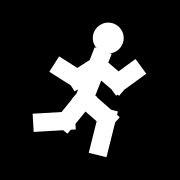
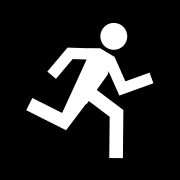
nuovo omino

Changed region(s): [[0.1389, 0.1111, 0.8611, 0.8889]]

diff --git a/index.html b/index.html
@@ -47,10 +47,11 @@
   @keyframes word-in { from { transform: translate(var(--dx), var(--dy)); opacity: 0; } to { transform: none; opacity: 1; } }
   @keyframes pop { from { transform: scale(0); } to { transform: scale(1); } }
 
-  .pose-a { animation: frame-a .56s steps(1) infinite; }
-  .pose-b { animation: frame-b .56s steps(1) infinite; }
-  @keyframes frame-a { 0% { opacity: 1; } 50% { opacity: 0; } }
-  @keyframes frame-b { 0% { opacity: 0; } 50% { opacity: 1; } }
+  .rbody { transform-box: fill-box; animation: stride .36s ease-in-out infinite alternate; }
+  @keyframes stride { from { transform: translateY(0); } to { transform: translateY(-3%); } }
+  .sl { transform-box: fill-box; animation: whoosh .9s linear infinite; }
+  .sl1 { animation-delay: -.3s; } .sl2 { animation-delay: -.6s; }
+  @keyframes whoosh { 0% { transform: translateX(60%); opacity: 0; } 25% { opacity: 1; } 100% { transform: translateX(-90%); opacity: 0; } }
 
   .tagline { margin: 28px 0 0; font-size: clamp(26px, 7vw, 40px); line-height: 1; text-align: center;
              animation: fade-up .7s 1.3s both; }
@@ -114,7 +115,7 @@
 
   @media (prefers-reduced-motion: reduce) {
     *, *::before, *::after { animation: none !important; transition: none !important; }
-    .pose-b { opacity: 0; }
+    .sl { display: none; }
     .stop { opacity: 1; transform: none; }
     html { scroll-behavior: auto; }
   }
@@ -125,7 +126,7 @@
 <header class="hero">
   <h1 style="margin:0;width:100%;display:flex;justify-content:center">
 <svg xmlns="http://www.w3.org/2000/svg" viewBox="-0.9914 -1.2128 2.3027 2.3027" class="logo" role="img" aria-label="Lunch Break Run Club">
-<path class="w w-break" d="M-0.3718615848884387 -1.1121161677579834H-0.24343031181078376Q-0.17766731053608095 -1.1121161677579834 -0.14749369818651142 -1.0735202802872208Q-0.11732008583694192 -1.0349243928164584 -0.11732008583694192 -0.9548012846493062V-0.9274421745434493Q-0.11732008583694192 -0.8746781764821538 -0.13085952727585132 -0.841456399925042Q-0.1443989687147607 -0.8082346233679301 -0.1722515339605172 -0.7935779572397925V-0.7916237350893741Q-0.10880957978962746 -0.7642646249835172 -0.10880957978962746 -0.6489655181088347V-0.5903388535962842Q-0.10880957978962746 -0.5111928565043412 -0.14169108042697887 -0.4696656358079513Q-0.17457258106433024 -0.42813841511156137 -0.23801453523522 -0.42813841511156137H-0.3718615848884387ZM-0.2534881825939736 -0.8336395113233686Q-0.22795666445203017 -0.8336395113233686 -0.21519090538105845 -0.8502503996019245Q-0.20242514631008673 -0.8668612878804804 -0.20242514631008673 -0.9059457308888474V-0.9440530628220053Q-0.20242514631008673 -0.9811832836799539 -0.21286985827724542 -0.9977941719585098Q-0.2233145702444041 -1.0144050602370658 -0.24575135891459682 -1.0144050602370658H-0.28675652441529387V-0.8336395113233686ZM-0.23801453523522 -0.5258495226324787Q-0.2155777465650273 -0.5258495226324787 -0.20474619341389977 -0.540994744298221Q-0.19391464026277225 -0.5561399659639632 -0.19391464026277225 -0.5932701868219118V-0.6528739624096714Q-0.19391464026277225 -0.6997752940197117 -0.20668039933374396 -0.7178518489110814Q-0.21944615840471568 -0.7359284038024512 -0.24884608838634753 -0.7359284038024512H-0.28675652441529387V-0.5258495226324787ZM-0.03754465206125693 -1.1121161677579834H0.0885655739125849Q0.1543285751872877 -1.1121161677579834 0.18450218753685724 -1.0735202802872208Q0.21467579988642677 -1.0349243928164584 0.21467579988642677 -0.9548012846493062V-0.9127855084153117Q0.21467579988642677 -0.8062804012175118 0.1589706693949138 -0.7779441800364457V-0.7759899578860273Q0.189917964112421 -0.7642646249835172 0.20268372318339273 -0.7281115152007778Q0.21544948225436444 -0.6919584054180383 0.21544948225436444 -0.6313775187550696V-0.5111928565043412Q0.21544948225436444 -0.48187952424806596 0.2169968469902398 -0.46380296935669624Q0.21854421172611516 -0.4457264144653265 0.22473367066961658 -0.42813841511156137H0.13808124546059644Q0.13343915125297034 -0.4447493033901173 0.131891786517095 -0.45940596951825496Q0.13034442178121963 -0.47406263564639256 0.13034442178121963 -0.5121699675795504V-0.6372401852063246Q0.13034442178121963 -0.6841415168163649 0.1183523450781856 -0.7027066272453393Q0.10636026837515156 -0.7212717376743136 0.0769603383935197 -0.7212717376743136H0.04756040841188787V-0.42813841511156137H-0.03754465206125693ZM0.07850770312939506 -0.818982845195231Q0.10403922127133852 -0.818982845195231 0.11680498034231024 -0.835593733473787Q0.12957073941328195 -0.8522046217523429 0.12957073941328195 -0.8912890647607099V-0.9440530628220053Q0.12957073941328195 -0.9811832836799539 0.11912602744612327 -0.9977941719585098Q0.10868131547896459 -1.0144050602370658 0.08624452680877187 -1.0144050602370658H0.04756040841188787V-0.818982845195231ZM0.29599859839798714 -1.1121161677579834H0.5281033087792911V-1.0144050602370658H0.3811036588711319V-0.8336395113233686H0.4979296964297216V-0.7359284038024512H0.3811036588711319V-0.5258495226324787H0.5281033087792911V-0.42813841511156137H0.29599859839798714ZM0.6643575554144266 -1.1121161677579834H0.779636228237141L0.8678360181820366 -0.42813841511156137H0.7827309577088917L0.7672573103501381 -0.5639568545656366V-0.5620026324152182H0.6705470143579281L0.6550733669991745 -0.42813841511156137H0.5761577654695311ZM0.7571994395669482 -0.6548281845600897 0.719289003538002 -0.992908616582464H0.7177416388021266L0.6806048851411179 -0.6548281845600897ZM0.9305904398630925 -1.1121161677579834H1.0156955003362373V-0.8238684005712769L1.1240110318475125 -1.1121161677579834H1.2091160923206574L1.1077637021208213 -0.8609986214292256L1.2106634570565327 -0.42813841511156137H1.1216899847436994L1.0497375245254954 -0.7329970705768236L1.0156955003362373 -0.6460341848832072V-0.42813841511156137H0.9305904398630925Z" fill="#fff" stroke="#000" stroke-width="0.0037" stroke-linejoin="miter" stroke-miterlimit="4"/><path class="w w-run" d="M1.2299668981541647 -0.3911650259860705V-0.19277695240921522Q1.2299668981541647 -0.08932304901024163 1.183631596720537 -0.04185596392130078Q1.1372962952869097 0.005611121167640065 1.0411065556019106 0.005611121167640065H0.9906655945475819Q0.8628036235028881 0.005611121167640065 0.828785300931364 -0.08202042053501996H0.8264392097195348Q0.8123626624485594 -0.03333623070020886 0.7689599750297184 -0.013254002393349257Q0.7255572876108773 0.006828225913510344 0.6528284600441707 0.006828225913510344H0.5085438505166723Q0.47335248233923366 0.006828225913510344 0.45165113862981315 0.009262435405250902Q0.42994979492039265 0.01169664489699146 0.40883497401392943 0.02143348286395369V-0.11488224867351743Q0.428776749314478 -0.1221848771487391 0.4463724334031973 -0.12461908664047966Q0.46396811749191663 -0.12705329613222022 0.5097168961225869 -0.12705329613222022H0.6598667336796584Q0.7161729227635604 -0.12705329613222022 0.7384607892759382 -0.1459184196932095Q0.760748655788316 -0.1647835432541988 0.760748655788316 -0.21103352359726937V-0.25728350394033994H0.40883497401392943V-0.3911650259860705ZM0.8780532163797782 -0.20859931410552882Q0.8780532163797782 -0.16843485749180964 0.8979949916803267 -0.14835262918495007Q0.9179367669808753 -0.1282704008780905 0.9648585912174602 -0.1282704008780905H1.0282030539368496Q1.0727787869616052 -0.1282704008780905 1.0927205622621539 -0.14470131494733923Q1.1126623375627025 -0.16113222901658797 1.1126623375627025 -0.19642826664682606V-0.25728350394033994H0.8780532163797782ZM0.6035605445957566 0.09445976761617032H1.2299668981541647V0.22834128966190087H0.5941761797484397Q0.5519465379355133 0.22834128966190087 0.5331778082408793 0.2459893084770199Q0.5144090785462454 0.26363732729213896 0.5144090785462454 0.29649915543063643Q0.5144090785462454 0.32936098356913396 0.5331778082408793 0.347009002384253Q0.5519465379355133 0.364657021199372 0.5941761797484397 0.364657021199372H1.2299668981541647V0.49367012426162143H0.6035605445957566Q0.5038516680930138 0.49367012426162143 0.4504780930238985 0.4425517249350698Q0.3971045179547832 0.3914333256085181 0.3971045179547832 0.29406494593889587Q0.3971045179547832 0.19669656626927365 0.4504780930238985 0.145578166942722Q0.5038516680930138 0.09445976761617032 0.6035605445957566 0.09445976761617032ZM1.2299668981541647 0.5886042944395031V0.7565647493696015L0.7384607892759382 0.8867949571777212V0.8892291666694617H1.2299668981541647V1.0085054317647488H0.40883497401392943V0.8709725954814076L1.0082612786363012 0.7103147690265309V0.7078805595347903H0.40883497401392943V0.5886042944395031Z" fill="#fff" stroke="#000" stroke-width="0.0423" stroke-linejoin="miter" stroke-miterlimit="4"/><path class="w w-club" d="M0.3737644821983307 0.5569624291851051V0.8603779765935732Q0.3737644821983307 0.9265483885283987 0.33967342163842174 0.962861419468242Q0.3055823610785128 0.9991744504080853 0.2406861253138668 0.9991744504080853Q0.1757898895492208 0.9991744504080853 0.14169882898931185 0.962861419468242Q0.1076077684294029 0.9265483885283987 0.1076077684294029 0.8603779765935732V0.8006632146036088H0.19304078766387353V0.8660266702953265Q0.19304078766387353 0.9184788260973225 0.23822171129748781 0.9184788260973225Q0.2834026349311021 0.9184788260973225 0.2834026349311021 0.8660266702953265V0.550506779240244Q0.2834026349311021 0.4988615796813558 0.23822171129748781 0.4988615796813558Q0.19304078766387353 0.4988615796813558 0.19304078766387353 0.550506779240244V0.6368510972527602H0.1076077684294029V0.5569624291851051Q0.1076077684294029 0.49079201725027954 0.14169882898931185 0.45447898631043626Q0.1757898895492208 0.41816595537059303 0.2406861253138668 0.41816595537059303Q0.3055823610785128 0.41816595537059303 0.33967342163842174 0.45447898631043626Q0.3737644821983307 0.49079201725027954 0.3737644821983307 0.5569624291851051ZM0.03544719846295192 0.991104887977009H-0.054914648804276656V0.5069311421124321H-0.20360096112580733V0.4262355178016693H0.03544719846295192ZM-0.26179651833277745 0.5601902541575355V0.991104887977009H-0.352158365600006V0.5537346042126745Q-0.352158365600006 0.5246841794607999 -0.3640697000125043 0.5117728795710779Q-0.37598103442500264 0.4988615796813558 -0.3981607605724133 0.4988615796813558Q-0.42034048671982394 0.4988615796813558 -0.43225182113232224 0.5117728795710779Q-0.44416315554482055 0.5246841794607999 -0.44416315554482055 0.5537346042126745V0.991104887977009H-0.5312391174568771V0.5601902541575355Q-0.5312391174568771 0.49159897349338716 -0.4967373212275717 0.4548824644319901Q-0.46223552499826626 0.41816595537059303 -0.3965178178948273 0.41816595537059303Q-0.3308001107913883 0.41816595537059303 -0.2962983145620829 0.4548824644319901Q-0.26179651833277745 0.49159897349338716 -0.26179651833277745 0.5601902541575355ZM-0.6132573434888441 0.991104887977009H-0.74962158572848Q-0.8194466495258839 0.991104887977009 -0.8514840317388104 0.9592301163742577Q-0.8835214139517369 0.9273553447715064 -0.8835214139517369 0.8611849328366807V0.8385901580296673Q-0.8835214139517369 0.7950145209018553 -0.8691456655228595 0.767578008636196Q-0.8547699170939823 0.7401414963705366 -0.8251969488974348 0.7280371527239222V0.7264232402377069Q-0.8925575986784597 0.7038284654306933 -0.8925575986784597 0.6086076287439932V0.5601902541575355Q-0.8925575986784597 0.4948267984658177 -0.8576450667797578 0.46053115813374346Q-0.8227325348810559 0.4262355178016693 -0.7553718851000308 0.4262355178016693H-0.6132573434888441ZM-0.7389424583241712 0.7611223586913349Q-0.7660510125043397 0.7611223586913349 -0.779605289594424 0.7748406148241647Q-0.7931595666845083 0.7885588709569943 -0.7931595666845083 0.8208371206812994V0.8523084141624969Q-0.7931595666845083 0.8829727514005867 -0.782069703610803 0.8966910075334165Q-0.7709798405370977 0.9104092636662462 -0.747157171712101 0.9104092636662462H-0.7036191907560727V0.7611223586913349ZM-0.7553718851000308 0.5069311421124321Q-0.7791945539250276 0.5069311421124321 -0.7906951526681294 0.5194389638806003Q-0.8021957514112312 0.5319467856487685 -0.8021957514112312 0.5626111228868584V0.6118354537164238Q-0.8021957514112312 0.6505693533855899 -0.788641474321147 0.665498043883081Q-0.7750871972310626 0.6804267343805721 -0.7438712863569291 0.6804267343805721H-0.7036191907560727V0.5069311421124321Z" fill="#fff" stroke="#000" stroke-width="0.0075" stroke-linejoin="miter" stroke-miterlimit="4"/><path class="w w-lunch" d="M-0.8887931164801288 0.37V0.2899469006314406H-0.4955418737828755V0.15822316439772002H-0.43V0.37ZM-0.5387995104795734 0.0970917066980928H-0.8887931164801288V0.017038607329533356H-0.5335561605769433Q-0.5099610860151081 0.017038607329533356 -0.4994743862098481 0.006486153321859617Q-0.488987686404588 -0.004066300685814123 -0.488987686404588 -0.023715697803551455Q-0.488987686404588 -0.04336509492128876 -0.4994743862098481 -0.0539175489289625Q-0.5099610860151081 -0.06447000293663624 -0.5335561605769433 -0.06447000293663624H-0.8887931164801288V-0.14161208050997537H-0.5387995104795734Q-0.4830889177641292 -0.14161208050997537 -0.4532673651929208 -0.11104635166016176Q-0.42344581262171244 -0.08048062281034815 -0.42344581262171244 -0.02226018690594128Q-0.42344581262171244 0.03596024899846559 -0.4532673651929208 0.0665259778482792Q-0.4830889177641292 0.0970917066980928 -0.5387995104795734 0.0970917066980928ZM-0.8887931164801288 -0.2238484462249501V-0.32427869816005195L-0.6141726653298802 -0.4021485311821961V-0.40360404207980627H-0.8887931164801288V-0.4749240760627047H-0.43V-0.39268771034773L-0.764918975030494 -0.2966239911054587V-0.29516848020784847H-0.43V-0.2238484462249501ZM-0.5361778355282584 -0.554977175431264H-0.7826152809518704Q-0.8363596174538284 -0.554977175431264 -0.8658534606561223 -0.5851790265566751Q-0.8953473038584163 -0.6153808776820862 -0.8953473038584163 -0.6728735581376879Q-0.8953473038584163 -0.7303662385932898 -0.8658534606561223 -0.7605680897187008Q-0.8363596174538284 -0.7907699408441119 -0.7826152809518704 -0.7907699408441119H-0.7341142943525425V-0.715083374168383H-0.7872032121166717Q-0.8298054300755409 -0.715083374168383 -0.8298054300755409 -0.6750568244841032Q-0.8298054300755409 -0.6350302747998235 -0.7872032121166717 -0.6350302747998235H-0.5309344856256283Q-0.488987686404588 -0.6350302747998235 -0.488987686404588 -0.6750568244841032Q-0.488987686404588 -0.715083374168383 -0.5309344856256283 -0.715083374168383H-0.6010642905733051V-0.7907699408441119H-0.5361778355282584Q-0.4824334990263004 -0.7907699408441119 -0.4529396558240064 -0.7605680897187008Q-0.42344581262171244 -0.7303662385932898 -0.42344581262171244 -0.6728735581376879Q-0.42344581262171244 -0.6153808776820862 -0.4529396558240064 -0.5851790265566751Q-0.4824334990263004 -0.554977175431264 -0.5361778355282584 -0.554977175431264ZM-0.8887931164801288 -0.8642732411734255V-0.944326340541985H-0.7019987761989335V-1.0302014835009852H-0.8887931164801288V-1.1102545828695445H-0.43V-1.0302014835009852H-0.636456902416058V-0.944326340541985H-0.43V-0.8642732411734255Z" fill="#fff"/><g class="core"><rect x="-0.3800" y="-0.3800" width="0.7600" height="0.7600" fill="#fff"/><g class="pose-a"><circle cx="0.085" cy="-0.242" r="0.062" fill="#000"/><path d="M0.046,-0.144 L-0.026,0.039M0.039,-0.111 L0.131,-0.033M0.131,-0.033 L0.203,-0.085M0.033,-0.111 L-0.059,-0.052M-0.059,-0.052 L-0.131,-0.098M-0.026,0.039 L0.078,0.131M0.078,0.131 L0.046,0.261M-0.026,0.039 L-0.111,0.144M-0.111,0.144 L-0.222,0.150" stroke="#000" stroke-width="0.082" stroke-linecap="square" stroke-linejoin="miter" fill="none"/></g><g class="pose-b"><circle cx="0.078" cy="-0.229" r="0.062" fill="#000"/><path d="M0.046,-0.131 L-0.013,0.052M0.039,-0.098 L0.092,-0.013M0.092,-0.013 L0.163,-0.020M0.033,-0.098 L-0.026,-0.020M-0.026,-0.020 L-0.078,-0.059M-0.013,0.052 L0.026,0.163M0.026,0.163 L0.000,0.275M-0.013,0.052 L-0.065,0.144M-0.065,0.144 L-0.150,0.105" stroke="#000" stroke-width="0.082" stroke-linecap="square" stroke-linejoin="miter" fill="none"/></g></g>
+<path class="w w-break" d="M-0.3718615848884387 -1.1121161677579834H-0.24343031181078376Q-0.17766731053608095 -1.1121161677579834 -0.14749369818651142 -1.0735202802872208Q-0.11732008583694192 -1.0349243928164584 -0.11732008583694192 -0.9548012846493062V-0.9274421745434493Q-0.11732008583694192 -0.8746781764821538 -0.13085952727585132 -0.841456399925042Q-0.1443989687147607 -0.8082346233679301 -0.1722515339605172 -0.7935779572397925V-0.7916237350893741Q-0.10880957978962746 -0.7642646249835172 -0.10880957978962746 -0.6489655181088347V-0.5903388535962842Q-0.10880957978962746 -0.5111928565043412 -0.14169108042697887 -0.4696656358079513Q-0.17457258106433024 -0.42813841511156137 -0.23801453523522 -0.42813841511156137H-0.3718615848884387ZM-0.2534881825939736 -0.8336395113233686Q-0.22795666445203017 -0.8336395113233686 -0.21519090538105845 -0.8502503996019245Q-0.20242514631008673 -0.8668612878804804 -0.20242514631008673 -0.9059457308888474V-0.9440530628220053Q-0.20242514631008673 -0.9811832836799539 -0.21286985827724542 -0.9977941719585098Q-0.2233145702444041 -1.0144050602370658 -0.24575135891459682 -1.0144050602370658H-0.28675652441529387V-0.8336395113233686ZM-0.23801453523522 -0.5258495226324787Q-0.2155777465650273 -0.5258495226324787 -0.20474619341389977 -0.540994744298221Q-0.19391464026277225 -0.5561399659639632 -0.19391464026277225 -0.5932701868219118V-0.6528739624096714Q-0.19391464026277225 -0.6997752940197117 -0.20668039933374396 -0.7178518489110814Q-0.21944615840471568 -0.7359284038024512 -0.24884608838634753 -0.7359284038024512H-0.28675652441529387V-0.5258495226324787ZM-0.03754465206125693 -1.1121161677579834H0.0885655739125849Q0.1543285751872877 -1.1121161677579834 0.18450218753685724 -1.0735202802872208Q0.21467579988642677 -1.0349243928164584 0.21467579988642677 -0.9548012846493062V-0.9127855084153117Q0.21467579988642677 -0.8062804012175118 0.1589706693949138 -0.7779441800364457V-0.7759899578860273Q0.189917964112421 -0.7642646249835172 0.20268372318339273 -0.7281115152007778Q0.21544948225436444 -0.6919584054180383 0.21544948225436444 -0.6313775187550696V-0.5111928565043412Q0.21544948225436444 -0.48187952424806596 0.2169968469902398 -0.46380296935669624Q0.21854421172611516 -0.4457264144653265 0.22473367066961658 -0.42813841511156137H0.13808124546059644Q0.13343915125297034 -0.4447493033901173 0.131891786517095 -0.45940596951825496Q0.13034442178121963 -0.47406263564639256 0.13034442178121963 -0.5121699675795504V-0.6372401852063246Q0.13034442178121963 -0.6841415168163649 0.1183523450781856 -0.7027066272453393Q0.10636026837515156 -0.7212717376743136 0.0769603383935197 -0.7212717376743136H0.04756040841188787V-0.42813841511156137H-0.03754465206125693ZM0.07850770312939506 -0.818982845195231Q0.10403922127133852 -0.818982845195231 0.11680498034231024 -0.835593733473787Q0.12957073941328195 -0.8522046217523429 0.12957073941328195 -0.8912890647607099V-0.9440530628220053Q0.12957073941328195 -0.9811832836799539 0.11912602744612327 -0.9977941719585098Q0.10868131547896459 -1.0144050602370658 0.08624452680877187 -1.0144050602370658H0.04756040841188787V-0.818982845195231ZM0.29599859839798714 -1.1121161677579834H0.5281033087792911V-1.0144050602370658H0.3811036588711319V-0.8336395113233686H0.4979296964297216V-0.7359284038024512H0.3811036588711319V-0.5258495226324787H0.5281033087792911V-0.42813841511156137H0.29599859839798714ZM0.6643575554144266 -1.1121161677579834H0.779636228237141L0.8678360181820366 -0.42813841511156137H0.7827309577088917L0.7672573103501381 -0.5639568545656366V-0.5620026324152182H0.6705470143579281L0.6550733669991745 -0.42813841511156137H0.5761577654695311ZM0.7571994395669482 -0.6548281845600897 0.719289003538002 -0.992908616582464H0.7177416388021266L0.6806048851411179 -0.6548281845600897ZM0.9305904398630925 -1.1121161677579834H1.0156955003362373V-0.8238684005712769L1.1240110318475125 -1.1121161677579834H1.2091160923206574L1.1077637021208213 -0.8609986214292256L1.2106634570565327 -0.42813841511156137H1.1216899847436994L1.0497375245254954 -0.7329970705768236L1.0156955003362373 -0.6460341848832072V-0.42813841511156137H0.9305904398630925Z" fill="#fff" stroke="#000" stroke-width="0.0037" stroke-linejoin="miter" stroke-miterlimit="4"/><path class="w w-run" d="M1.2299668981541647 -0.3911650259860705V-0.19277695240921522Q1.2299668981541647 -0.08932304901024163 1.183631596720537 -0.04185596392130078Q1.1372962952869097 0.005611121167640065 1.0411065556019106 0.005611121167640065H0.9906655945475819Q0.8628036235028881 0.005611121167640065 0.828785300931364 -0.08202042053501996H0.8264392097195348Q0.8123626624485594 -0.03333623070020886 0.7689599750297184 -0.013254002393349257Q0.7255572876108773 0.006828225913510344 0.6528284600441707 0.006828225913510344H0.5085438505166723Q0.47335248233923366 0.006828225913510344 0.45165113862981315 0.009262435405250902Q0.42994979492039265 0.01169664489699146 0.40883497401392943 0.02143348286395369V-0.11488224867351743Q0.428776749314478 -0.1221848771487391 0.4463724334031973 -0.12461908664047966Q0.46396811749191663 -0.12705329613222022 0.5097168961225869 -0.12705329613222022H0.6598667336796584Q0.7161729227635604 -0.12705329613222022 0.7384607892759382 -0.1459184196932095Q0.760748655788316 -0.1647835432541988 0.760748655788316 -0.21103352359726937V-0.25728350394033994H0.40883497401392943V-0.3911650259860705ZM0.8780532163797782 -0.20859931410552882Q0.8780532163797782 -0.16843485749180964 0.8979949916803267 -0.14835262918495007Q0.9179367669808753 -0.1282704008780905 0.9648585912174602 -0.1282704008780905H1.0282030539368496Q1.0727787869616052 -0.1282704008780905 1.0927205622621539 -0.14470131494733923Q1.1126623375627025 -0.16113222901658797 1.1126623375627025 -0.19642826664682606V-0.25728350394033994H0.8780532163797782ZM0.6035605445957566 0.09445976761617032H1.2299668981541647V0.22834128966190087H0.5941761797484397Q0.5519465379355133 0.22834128966190087 0.5331778082408793 0.2459893084770199Q0.5144090785462454 0.26363732729213896 0.5144090785462454 0.29649915543063643Q0.5144090785462454 0.32936098356913396 0.5331778082408793 0.347009002384253Q0.5519465379355133 0.364657021199372 0.5941761797484397 0.364657021199372H1.2299668981541647V0.49367012426162143H0.6035605445957566Q0.5038516680930138 0.49367012426162143 0.4504780930238985 0.4425517249350698Q0.3971045179547832 0.3914333256085181 0.3971045179547832 0.29406494593889587Q0.3971045179547832 0.19669656626927365 0.4504780930238985 0.145578166942722Q0.5038516680930138 0.09445976761617032 0.6035605445957566 0.09445976761617032ZM1.2299668981541647 0.5886042944395031V0.7565647493696015L0.7384607892759382 0.8867949571777212V0.8892291666694617H1.2299668981541647V1.0085054317647488H0.40883497401392943V0.8709725954814076L1.0082612786363012 0.7103147690265309V0.7078805595347903H0.40883497401392943V0.5886042944395031Z" fill="#fff" stroke="#000" stroke-width="0.0423" stroke-linejoin="miter" stroke-miterlimit="4"/><path class="w w-club" d="M0.3737644821983307 0.5569624291851051V0.8603779765935732Q0.3737644821983307 0.9265483885283987 0.33967342163842174 0.962861419468242Q0.3055823610785128 0.9991744504080853 0.2406861253138668 0.9991744504080853Q0.1757898895492208 0.9991744504080853 0.14169882898931185 0.962861419468242Q0.1076077684294029 0.9265483885283987 0.1076077684294029 0.8603779765935732V0.8006632146036088H0.19304078766387353V0.8660266702953265Q0.19304078766387353 0.9184788260973225 0.23822171129748781 0.9184788260973225Q0.2834026349311021 0.9184788260973225 0.2834026349311021 0.8660266702953265V0.550506779240244Q0.2834026349311021 0.4988615796813558 0.23822171129748781 0.4988615796813558Q0.19304078766387353 0.4988615796813558 0.19304078766387353 0.550506779240244V0.6368510972527602H0.1076077684294029V0.5569624291851051Q0.1076077684294029 0.49079201725027954 0.14169882898931185 0.45447898631043626Q0.1757898895492208 0.41816595537059303 0.2406861253138668 0.41816595537059303Q0.3055823610785128 0.41816595537059303 0.33967342163842174 0.45447898631043626Q0.3737644821983307 0.49079201725027954 0.3737644821983307 0.5569624291851051ZM0.03544719846295192 0.991104887977009H-0.054914648804276656V0.5069311421124321H-0.20360096112580733V0.4262355178016693H0.03544719846295192ZM-0.26179651833277745 0.5601902541575355V0.991104887977009H-0.352158365600006V0.5537346042126745Q-0.352158365600006 0.5246841794607999 -0.3640697000125043 0.5117728795710779Q-0.37598103442500264 0.4988615796813558 -0.3981607605724133 0.4988615796813558Q-0.42034048671982394 0.4988615796813558 -0.43225182113232224 0.5117728795710779Q-0.44416315554482055 0.5246841794607999 -0.44416315554482055 0.5537346042126745V0.991104887977009H-0.5312391174568771V0.5601902541575355Q-0.5312391174568771 0.49159897349338716 -0.4967373212275717 0.4548824644319901Q-0.46223552499826626 0.41816595537059303 -0.3965178178948273 0.41816595537059303Q-0.3308001107913883 0.41816595537059303 -0.2962983145620829 0.4548824644319901Q-0.26179651833277745 0.49159897349338716 -0.26179651833277745 0.5601902541575355ZM-0.6132573434888441 0.991104887977009H-0.74962158572848Q-0.8194466495258839 0.991104887977009 -0.8514840317388104 0.9592301163742577Q-0.8835214139517369 0.9273553447715064 -0.8835214139517369 0.8611849328366807V0.8385901580296673Q-0.8835214139517369 0.7950145209018553 -0.8691456655228595 0.767578008636196Q-0.8547699170939823 0.7401414963705366 -0.8251969488974348 0.7280371527239222V0.7264232402377069Q-0.8925575986784597 0.7038284654306933 -0.8925575986784597 0.6086076287439932V0.5601902541575355Q-0.8925575986784597 0.4948267984658177 -0.8576450667797578 0.46053115813374346Q-0.8227325348810559 0.4262355178016693 -0.7553718851000308 0.4262355178016693H-0.6132573434888441ZM-0.7389424583241712 0.7611223586913349Q-0.7660510125043397 0.7611223586913349 -0.779605289594424 0.7748406148241647Q-0.7931595666845083 0.7885588709569943 -0.7931595666845083 0.8208371206812994V0.8523084141624969Q-0.7931595666845083 0.8829727514005867 -0.782069703610803 0.8966910075334165Q-0.7709798405370977 0.9104092636662462 -0.747157171712101 0.9104092636662462H-0.7036191907560727V0.7611223586913349ZM-0.7553718851000308 0.5069311421124321Q-0.7791945539250276 0.5069311421124321 -0.7906951526681294 0.5194389638806003Q-0.8021957514112312 0.5319467856487685 -0.8021957514112312 0.5626111228868584V0.6118354537164238Q-0.8021957514112312 0.6505693533855899 -0.788641474321147 0.665498043883081Q-0.7750871972310626 0.6804267343805721 -0.7438712863569291 0.6804267343805721H-0.7036191907560727V0.5069311421124321Z" fill="#fff" stroke="#000" stroke-width="0.0075" stroke-linejoin="miter" stroke-miterlimit="4"/><path class="w w-lunch" d="M-0.8887931164801288 0.37V0.2899469006314406H-0.4955418737828755V0.15822316439772002H-0.43V0.37ZM-0.5387995104795734 0.0970917066980928H-0.8887931164801288V0.017038607329533356H-0.5335561605769433Q-0.5099610860151081 0.017038607329533356 -0.4994743862098481 0.006486153321859617Q-0.488987686404588 -0.004066300685814123 -0.488987686404588 -0.023715697803551455Q-0.488987686404588 -0.04336509492128876 -0.4994743862098481 -0.0539175489289625Q-0.5099610860151081 -0.06447000293663624 -0.5335561605769433 -0.06447000293663624H-0.8887931164801288V-0.14161208050997537H-0.5387995104795734Q-0.4830889177641292 -0.14161208050997537 -0.4532673651929208 -0.11104635166016176Q-0.42344581262171244 -0.08048062281034815 -0.42344581262171244 -0.02226018690594128Q-0.42344581262171244 0.03596024899846559 -0.4532673651929208 0.0665259778482792Q-0.4830889177641292 0.0970917066980928 -0.5387995104795734 0.0970917066980928ZM-0.8887931164801288 -0.2238484462249501V-0.32427869816005195L-0.6141726653298802 -0.4021485311821961V-0.40360404207980627H-0.8887931164801288V-0.4749240760627047H-0.43V-0.39268771034773L-0.764918975030494 -0.2966239911054587V-0.29516848020784847H-0.43V-0.2238484462249501ZM-0.5361778355282584 -0.554977175431264H-0.7826152809518704Q-0.8363596174538284 -0.554977175431264 -0.8658534606561223 -0.5851790265566751Q-0.8953473038584163 -0.6153808776820862 -0.8953473038584163 -0.6728735581376879Q-0.8953473038584163 -0.7303662385932898 -0.8658534606561223 -0.7605680897187008Q-0.8363596174538284 -0.7907699408441119 -0.7826152809518704 -0.7907699408441119H-0.7341142943525425V-0.715083374168383H-0.7872032121166717Q-0.8298054300755409 -0.715083374168383 -0.8298054300755409 -0.6750568244841032Q-0.8298054300755409 -0.6350302747998235 -0.7872032121166717 -0.6350302747998235H-0.5309344856256283Q-0.488987686404588 -0.6350302747998235 -0.488987686404588 -0.6750568244841032Q-0.488987686404588 -0.715083374168383 -0.5309344856256283 -0.715083374168383H-0.6010642905733051V-0.7907699408441119H-0.5361778355282584Q-0.4824334990263004 -0.7907699408441119 -0.4529396558240064 -0.7605680897187008Q-0.42344581262171244 -0.7303662385932898 -0.42344581262171244 -0.6728735581376879Q-0.42344581262171244 -0.6153808776820862 -0.4529396558240064 -0.5851790265566751Q-0.4824334990263004 -0.554977175431264 -0.5361778355282584 -0.554977175431264ZM-0.8887931164801288 -0.8642732411734255V-0.944326340541985H-0.7019987761989335V-1.0302014835009852H-0.8887931164801288V-1.1102545828695445H-0.43V-1.0302014835009852H-0.636456902416058V-0.944326340541985H-0.43V-0.8642732411734255Z" fill="#fff"/><g class="core"><rect x="-0.3800" y="-0.3800" width="0.7600" height="0.7600" fill="#fff"/><rect class="sl sl0" x="-0.314" y="-0.150" width="0.131" height="0.027" fill="#000"/><rect class="sl sl1" x="-0.327" y="-0.020" width="0.105" height="0.027" fill="#000"/><rect class="sl sl2" x="-0.301" y="0.105" width="0.092" height="0.027" fill="#000"/><g class="rbody"><circle cx="0.103" cy="-0.232" r="0.058" fill="#000"/><path d="M-0.015,-0.131 L-0.007,-0.180 L0.045,-0.180 L0.103,-0.145 L0.076,-0.066 L0.034,-0.007 L-0.013,0.059 L-0.120,0.098Z" fill="#000"/><path d="M0.020,-0.155 L-0.086,-0.159 L-0.150,-0.083M0.093,-0.113 L0.140,-0.007 L0.243,-0.044" stroke="#000" stroke-width="0.049" stroke-linecap="square" stroke-linejoin="miter" stroke-miterlimit="6" fill="none"/><path d="M0.012,0.024 L0.115,0.101 L0.113,0.265M-0.047,0.051 L-0.112,0.137 L-0.236,0.074" stroke="#000" stroke-width="0.059" stroke-linecap="square" stroke-linejoin="miter" stroke-miterlimit="6" fill="none"/></g></g>
 </svg>
 
   </h1>
@@ -145,7 +146,7 @@
     <p class="label" id="clock-label">Partenza tra</p>
     <p class="digits display" id="clock-digits">--:--:--</p>
     <div class="progress" aria-hidden="true"><i id="clock-bar"></i></div>
-<svg class="runner" viewBox="0 0 100 100" aria-hidden="true" focusable="false"><g class="pose-a"><circle cx="63.000" cy="13.000" r="9.500" fill="currentColor"/><path d="M57.000,28.000 L46.000,56.000M56.000,33.000 L70.000,45.000M70.000,45.000 L81.000,37.000M55.000,33.000 L41.000,42.000M41.000,42.000 L30.000,35.000M46.000,56.000 L62.000,70.000M62.000,70.000 L57.000,90.000M46.000,56.000 L33.000,72.000M33.000,72.000 L16.000,73.000" stroke="currentColor" stroke-width="12.500" stroke-linecap="square" stroke-linejoin="miter" fill="none"/></g><g class="pose-b"><circle cx="62.000" cy="15.000" r="9.500" fill="currentColor"/><path d="M57.000,30.000 L48.000,58.000M56.000,35.000 L64.000,48.000M64.000,48.000 L75.000,47.000M55.000,35.000 L46.000,47.000M46.000,47.000 L38.000,41.000M48.000,58.000 L54.000,75.000M54.000,75.000 L50.000,92.000M48.000,58.000 L40.000,72.000M40.000,72.000 L27.000,66.000" stroke="currentColor" stroke-width="12.500" stroke-linecap="square" stroke-linejoin="miter" fill="none"/></g></svg>
+<svg class="runner" viewBox="0 0 100 100" aria-hidden="true" focusable="false"><rect class="sl sl0" x="2.000" y="27.000" width="20.000" height="4.200" fill="currentColor"/><rect class="sl sl1" x="0.000" y="47.000" width="16.000" height="4.200" fill="currentColor"/><rect class="sl sl2" x="4.000" y="66.000" width="14.000" height="4.200" fill="currentColor"/><g class="rbody"><circle cx="65.738" cy="14.525" r="8.901" fill="currentColor"/><path d="M47.678,30.005 L48.968,22.523 L56.837,22.523 L65.738,27.812 L61.610,39.938 L55.160,48.968 L47.936,59.030 L31.682,64.964Z" fill="currentColor"/><path d="M53.096,26.264 L36.842,25.748 L27.038,37.358M64.190,32.714 L71.414,48.968 L87.152,43.292" stroke="currentColor" stroke-width="7.482" stroke-linecap="square" stroke-linejoin="miter" stroke-miterlimit="6" fill="none"/><path d="M51.806,53.612 L67.544,65.480 L67.286,90.506M42.776,57.740 L32.843,70.898 L13.880,61.352" stroke="currentColor" stroke-width="9.030" stroke-linecap="square" stroke-linejoin="miter" stroke-miterlimit="6" fill="none"/></g></svg>
     <p class="sub" id="clock-sub">Ora di Novazzano</p>
   </section>
 
@@ -153,7 +154,7 @@
     <h2 class="display" id="how-title">Come funziona</h2>
     <div class="track" id="track">
       <span class="fill" id="track-fill" aria-hidden="true"></span>
-<svg class="runner" viewBox="0 0 100 100" aria-hidden="true" focusable="false"><g class="pose-a"><circle cx="63.000" cy="13.000" r="9.500" fill="currentColor"/><path d="M57.000,28.000 L46.000,56.000M56.000,33.000 L70.000,45.000M70.000,45.000 L81.000,37.000M55.000,33.000 L41.000,42.000M41.000,42.000 L30.000,35.000M46.000,56.000 L62.000,70.000M62.000,70.000 L57.000,90.000M46.000,56.000 L33.000,72.000M33.000,72.000 L16.000,73.000" stroke="currentColor" stroke-width="12.500" stroke-linecap="square" stroke-linejoin="miter" fill="none"/></g><g class="pose-b"><circle cx="62.000" cy="15.000" r="9.500" fill="currentColor"/><path d="M57.000,30.000 L48.000,58.000M56.000,35.000 L64.000,48.000M64.000,48.000 L75.000,47.000M55.000,35.000 L46.000,47.000M46.000,47.000 L38.000,41.000M48.000,58.000 L54.000,75.000M54.000,75.000 L50.000,92.000M48.000,58.000 L40.000,72.000M40.000,72.000 L27.000,66.000" stroke="currentColor" stroke-width="12.500" stroke-linecap="square" stroke-linejoin="miter" fill="none"/></g></svg>
+<svg class="runner" viewBox="0 0 100 100" aria-hidden="true" focusable="false"><rect class="sl sl0" x="2.000" y="27.000" width="20.000" height="4.200" fill="currentColor"/><rect class="sl sl1" x="0.000" y="47.000" width="16.000" height="4.200" fill="currentColor"/><rect class="sl sl2" x="4.000" y="66.000" width="14.000" height="4.200" fill="currentColor"/><g class="rbody"><circle cx="65.738" cy="14.525" r="8.901" fill="currentColor"/><path d="M47.678,30.005 L48.968,22.523 L56.837,22.523 L65.738,27.812 L61.610,39.938 L55.160,48.968 L47.936,59.030 L31.682,64.964Z" fill="currentColor"/><path d="M53.096,26.264 L36.842,25.748 L27.038,37.358M64.190,32.714 L71.414,48.968 L87.152,43.292" stroke="currentColor" stroke-width="7.482" stroke-linecap="square" stroke-linejoin="miter" stroke-miterlimit="6" fill="none"/><path d="M51.806,53.612 L67.544,65.480 L67.286,90.506M42.776,57.740 L32.843,70.898 L13.880,61.352" stroke="currentColor" stroke-width="9.030" stroke-linecap="square" stroke-linejoin="miter" stroke-miterlimit="6" fill="none"/></g></svg>
       <ol class="stops">
       <li class="stop">
         <p class="t display">12:30</p>
